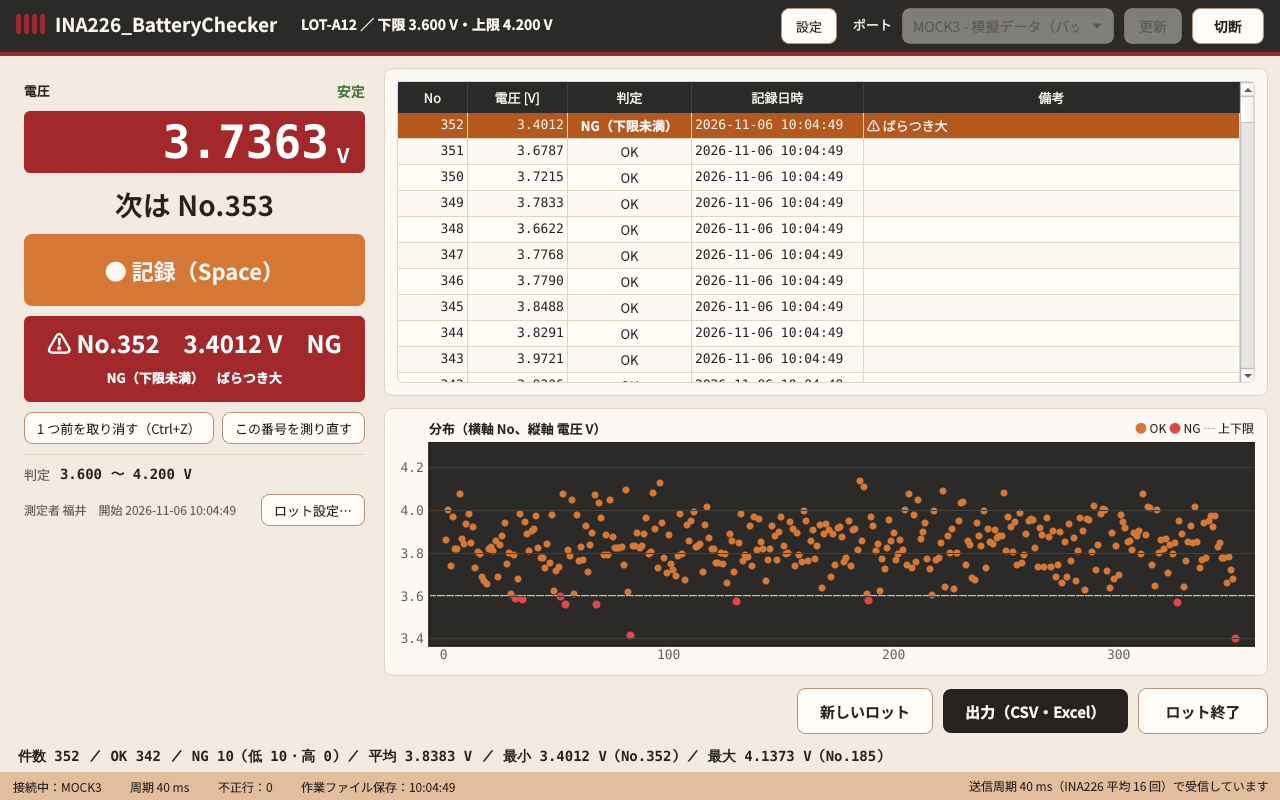
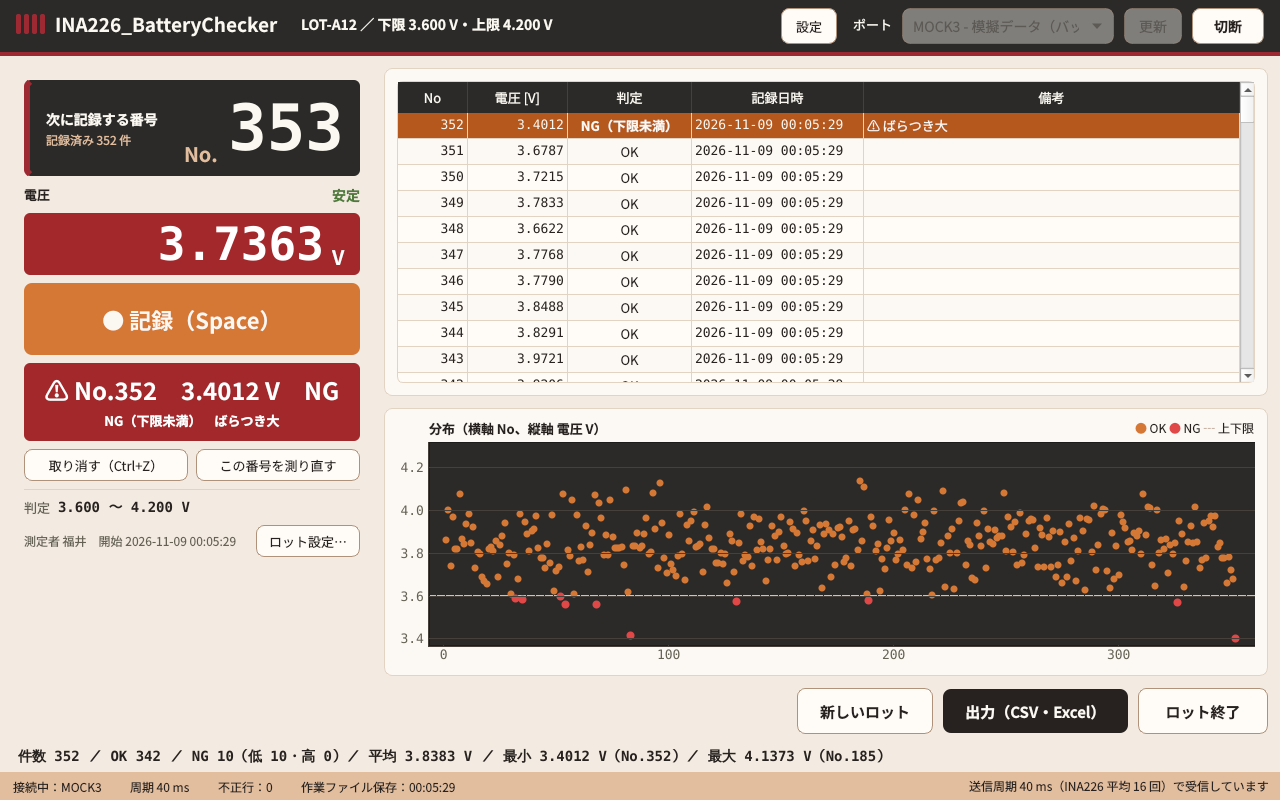
Show the current number prominently in a number card
- New NumberCard at the top of the left panel: "次に記録する番号" with a 64px
  number on the dark header color, plus the recorded count
- Remeasure mode switches the card to the orange badge color with
  "測り直す番号" and the unchanged next number
- No lot: neutral card with "---"
- Undo/remeasure buttons no longer widen the fixed-width left panel;
  "測り直しをやめる" stays enabled while disconnected
- Updated tests, README and screenshot

Claude-Session: https://claude.ai/code/session_017w9UF8vd975PXdvssJUhCt

Changed region(s): [[0.0, 0.0938, 0.3125, 0.6875], [0.625, 0.3438, 0.6562, 0.4688]]

diff --git a/battery_checker/gui/main_window.py b/battery_checker/gui/main_window.py
@@ -27,6 +27,7 @@ from PySide6.QtWidgets import (
     QPlainTextEdit,
     QPushButton,
     QScrollArea,
+    QSizePolicy,
     QStatusBar,
     QTextEdit,
     QVBoxLayout,
@@ -52,7 +53,7 @@ from ..workfile import WorkFile, cleanup_finished, find_unfinished, finish_lot, 
 from .dialogs import LotDialog, LotInput, SettingsDialog
 from .plot_panel import DistributionPlot
 from .record_table import RecordTablePanel
-from .widgets import ElideLabel, FitLabel, divider, sub_label
+from .widgets import ElideLabel, FitLabel, NumberCard, divider, sub_label
 
 log = logging.getLogger(__name__)
 
@@ -243,7 +244,11 @@ class MainWindow(QMainWindow):
         panel.setObjectName("panel")
         lay = QVBoxLayout(panel)
         lay.setContentsMargins(12, 12, 12, 12)
-        lay.setSpacing(10)
+        lay.setSpacing(8)
+
+        # 0. いま記録する番号（いちばん目立つ所に大きく）
+        self.number_card = NumberCard()
+        lay.addWidget(self.number_card)
 
         # 1. 「電圧」見出しと接続状態
         row = QHBoxLayout()
@@ -270,12 +275,6 @@ class MainWindow(QMainWindow):
         bl.addWidget(unit, 0, Qt.AlignBottom)
         lay.addWidget(badge)
 
-        # 3. 次の番号
-        self.next_label = QLabel()
-        self.next_label.setFont(ui_font(28, bold=True))
-        self.next_label.setAlignment(Qt.AlignCenter)
-        lay.addWidget(self.next_label)
-
         # 4. 記録ボタン
         self.record_button = self._button("● 記録（Space）", "recordButton", self.on_record, 22)
         self.record_button.setFixedHeight(72)
@@ -295,16 +294,19 @@ class MainWindow(QMainWindow):
         self.result_sub.setWordWrap(True)
         rl.addWidget(self.result_main)
         rl.addWidget(self.result_sub)
-        self.result_box.setMinimumHeight(86)
+        self.result_box.setMinimumHeight(78)
         lay.addWidget(self.result_box)
 
         # 6. 取り消し・測り直し
         row = QHBoxLayout()
         row.setSpacing(8)
-        self.undo_button = self._button("1 つ前を取り消す（Ctrl+Z）", "undoButton", self.on_undo, 13, bold=False)
+        self.undo_button = self._button("取り消す（Ctrl+Z）", "undoButton", self.on_undo, 13, bold=False)
         self.remeasure_button = self._button("この番号を測り直す", "remeasureButton", self.on_remeasure, 13, bold=False)
         for b in (self.undo_button, self.remeasure_button):
             b.setMinimumHeight(38)
+            # 文字の長さで左パネルの幅を広げない（左パネルは幅固定）
+            b.setSizePolicy(QSizePolicy.Ignored, QSizePolicy.Fixed)
+            b.setMinimumWidth(0)
             row.addWidget(b, 1)
         lay.addLayout(row)
 
@@ -333,6 +335,7 @@ class MainWindow(QMainWindow):
         scroll.setHorizontalScrollBarPolicy(Qt.ScrollBarAlwaysOff)
         scroll.setFixedWidth(LEFT_PANEL_WIDTH)
         scroll.setFocusPolicy(Qt.NoFocus)
+        self.left_scroll = scroll
         return scroll
 
     def _build_status_bar(self) -> None:
@@ -404,8 +407,9 @@ class MainWindow(QMainWindow):
         selected = self.table.selected_no() is not None
         self.record_button.setEnabled(connected and has_lot and battery and not measuring)
         self.undo_button.setEnabled(has_lot and n > 0 and not measuring)
+        # 測り直しを始めるのは接続中だけ。やめるのはいつでもできる
         self.remeasure_button.setEnabled(
-            connected and has_lot and not measuring and (selected or self.remeasure_no is not None)
+            has_lot and not measuring and (self.remeasure_no is not None or (connected and selected))
         )
         self.export_button.setEnabled(has_lot and n > 0 and not measuring)
         self.new_lot_button.setEnabled(not measuring)
@@ -416,12 +420,22 @@ class MainWindow(QMainWindow):
         self.refresh_button.setEnabled(not connected and not measuring)
         self.connect_button.setEnabled(not measuring and (connected or bool(self.port_combo.currentData())))
         self.connect_button.setText("切断" if connected else "接続")
+        self._update_number()
         if self.remeasure_no is not None:
             self.record_button.setText(f"● No.{self.remeasure_no} を測り直す（Space）")
-            self.remeasure_button.setText("測り直しをやめる（Esc）")
+            self.remeasure_button.setText("測り直しをやめる")
         else:
             self.record_button.setText("● 記録（Space）")
             self.remeasure_button.setText("この番号を測り直す")
+
+    def _update_number(self) -> None:
+        book = self.book
+        if book is None:
+            self.number_card.set_none()
+        elif self.remeasure_no is not None:
+            self.number_card.set_remeasure(self.remeasure_no, book.next_no)
+        else:
+            self.number_card.set_next(book.next_no, len(book))
 
     def _update_display(self, force: bool = False) -> None:
         """電圧表示・接続状態・ステータス欄（200 ms ごと）。"""
@@ -487,7 +501,7 @@ class MainWindow(QMainWindow):
 
     def _refresh_records(self) -> None:
         book = self.book
-        self.next_label.setText(f"次は No.{book.next_no}" if book else "次は ---")
+        self._update_number()
         self.plot.refresh(book)
         self.summary_label.setText(summary_text(compute_stats(book.records)) if book else "")
 

diff --git a/battery_checker/gui/widgets.py b/battery_checker/gui/widgets.py
@@ -1,12 +1,12 @@
-"""画面部品：数値ラベル・区切り線・補助ラベル（INA226_Monitor v1.2.1 の widgets.py から流用）。"""
+"""画面部品：数値ラベル・区切り線・補助ラベル（INA226_Monitor v1.2.1 の widgets.py から流用）と、番号カード。"""
 
 from __future__ import annotations
 
 from PySide6.QtCore import Qt
 from PySide6.QtGui import QFont, QFontMetrics, QPainter
-from PySide6.QtWidgets import QFrame, QLabel, QSizePolicy
+from PySide6.QtWidgets import QFrame, QHBoxLayout, QLabel, QSizePolicy, QVBoxLayout, QWidget
 
-from ..theme import ui_font
+from ..theme import mono_font, ui_font
 
 
 class FitLabel(QLabel):
@@ -79,3 +79,70 @@ class ElideLabel(QLabel):
         rect = self.contentsRect()
         text = QFontMetrics(self.font()).elidedText(self.text(), Qt.ElideRight, rect.width())
         painter.drawText(rect, int(Qt.AlignLeft | Qt.AlignVCenter), text)
+
+
+class NumberCard(QFrame):
+    """いま記録する番号を大きく出すカード（7 章 3.）。
+
+    - 通常：濃い地に「次に記録する番号」と番号。記録済みの件数も出す
+    - 測り直し中：朽葉色の地に「測り直す番号」と、その番号（次の番号は変わらないことも出す）
+    - ロットなし：番号は「---」
+    """
+
+    def __init__(self, parent=None) -> None:
+        super().__init__(parent)
+        self.setObjectName("numberCard")
+        self.setProperty("mode", "none")
+        lay = QHBoxLayout(self)
+        lay.setContentsMargins(16, 8, 16, 8)
+        lay.setSpacing(6)
+        left = QVBoxLayout()
+        left.setSpacing(2)
+        self.caption_label = QLabel("次に記録する番号")
+        self.caption_label.setObjectName("numberCaption")
+        self.caption_label.setFont(ui_font(14, bold=True))
+        self.sub_label = QLabel()
+        self.sub_label.setObjectName("numberSub")
+        self.sub_label.setFont(ui_font(12))
+        # 文字が長くてもカードの幅を広げない（番号の表示を優先する）
+        for w in (self.caption_label, self.sub_label):
+            w.setSizePolicy(QSizePolicy.Ignored, QSizePolicy.Preferred)
+            w.setMinimumWidth(0)
+        left.addStretch(1)
+        left.addWidget(self.caption_label)
+        left.addWidget(self.sub_label)
+        left.addStretch(1)
+        lay.addLayout(left, 1)
+        self.prefix_label = QLabel("No.")
+        self.prefix_label.setObjectName("numberPrefix")
+        self.prefix_label.setFont(ui_font(20, bold=True))
+        lay.addWidget(self.prefix_label, 0, Qt.AlignBottom)
+        self.number_label = FitLabel(mono_font(64, bold=True), min_px=28)
+        self.number_label.setObjectName("numberValue")
+        self.number_label.setMinimumWidth(120)
+        self.number_label.setSizePolicy(QSizePolicy.Preferred, QSizePolicy.Preferred)
+        lay.addWidget(self.number_label, 0)
+        self.setFixedHeight(96)
+
+    def _set(self, mode: str, caption: str, number: str, sub: str) -> None:
+        self.caption_label.setText(caption)
+        self.number_label.setText(number)
+        self.sub_label.setText(sub)
+        if self.property("mode") != mode:
+            self.setProperty("mode", mode)
+            for w in (self, *self.findChildren(QWidget)):
+                w.style().unpolish(w)
+                w.style().polish(w)
+
+    def set_next(self, no: int, recorded: int) -> None:
+        self._set("next", "次に記録する番号", str(no), f"記録済み {recorded:,} 件")
+
+    def set_remeasure(self, no: int, next_no: int) -> None:
+        self._set("remeasure", "測り直す番号", str(no), f"次は No.{next_no} のまま")
+
+    def set_none(self) -> None:
+        self._set("none", "次に記録する番号", "---", "ロットを始めてください")
+
+    @property
+    def number(self) -> str:
+        return self.number_label.text()

diff --git a/tests/test_gui.py b/tests/test_gui.py
@@ -104,6 +104,7 @@ def test_initial_button_states(make_window, qapp):
     assert w.new_lot_button.isEnabled() and w.connect_button.isEnabled() and w.port_combo.isEnabled()
     assert w.connect_button.text() == "接続"
     assert w.lot_label.text() == "ロットなし"
+    assert w.number_card.number == "---" and w.number_card.property("mode") == "none"
 
 
 def test_ac01_connect_sends_interval_40(make_window, qapp):
@@ -183,7 +184,7 @@ def test_ac15_space_records_20_in_a_row(make_window, qapp, monkeypatch):
     assert w.asked == []  # 毎回バッテリを外しているので確認は出ない
     assert max(latencies) < 0.5, latencies
     assert w.table.model.rowCount() == 20 and w.table.selected_no() == 20  # 最新の行を選ぶ
-    assert w.next_label.text() == "次は No.21"
+    assert w.number_card.number == "21" and w.number_card.sub_label.text() == "記録済み 20 件"
     assert w.summary_label.text().startswith("件数 20 ／ OK ")
     # 作業ファイルにも 20 件
     from battery_checker.workfile import read_records
@@ -233,13 +234,17 @@ def test_undo_and_remeasure(make_window, qapp):
     w.answers = ["yes"]
     w.on_undo()
     assert w.asked[-1].startswith("No.3（") and w.asked[-1].endswith(" V）を取り消しますか？")
-    assert len(w.book) == 2 and w.next_label.text() == "次は No.3"
+    assert len(w.book) == 2 and w.number_card.number == "3"
     assert w.table.model.rowCount() == 2
     # 測り直し：No.1 を選んで「この番号を測り直す」→ 記録
     w.table.select_no(1)
     assert w.remeasure_button.isEnabled()
     w.on_remeasure()
     assert w.remeasure_no == 1 and w.result_main.text() == "No.1 を測り直します"
+    # 測り直し中は番号カードが「測り直す番号」に変わり、次の番号は変わらない
+    assert w.number_card.number == "1" and w.number_card.property("mode") == "remeasure"
+    assert w.number_card.caption_label.text() == "測り直す番号"
+    assert w.number_card.sub_label.text() == "次は No.3 のまま"
     assert record_and_wait(w, qapp) is False  # 件数は変わらない
     assert w.book.get(1).remeasured == 1 and len(w.book) == 2 and w.book.next_no == 3
     assert w.remeasure_no is None
@@ -294,7 +299,7 @@ def test_ac09_resume_in_new_window(make_window, qapp):
     w2.check_resume()
     assert w2.asked == ["前回のロット（LOT-B、3 件、最後は No.103）が途中です。続けますか？"]
     assert w2.lot.lot_name == "LOT-B" and len(w2.book) == 3 and w2.book.next_no == 104
-    assert w2.next_label.text() == "次は No.104" and w2.table.model.rowCount() == 3
+    assert w2.number_card.number == "104" and w2.table.model.rowCount() == 3
     assert w2.lot_label.text() == "LOT-B ／ 下限 3.600 V・上限 4.200 V"
     # 最終行が切れていたら、その 1 件を除いて再開し、メッセージを出す（AC-10）
     w2.close()

diff --git a/README.md b/README.md
@@ -15,9 +15,9 @@
 1. Arduino と INA226 を USB で PC に繋ぎ、`INA226_BatteryChecker.exe` を起動します
 2. ヘッダー右のポートを選び「接続」（ステータス欄に「周期 40 ms」と出れば準備完了）
 3. 「新しいロット」→ ロット名・測定者・下限・上限・開始番号を入れて「開始」（前回の値が入っています）
-4. バッテリを INA226 の測定端子に繋ぐ → 電圧の横が「安定」になったら **Space**（または Enter、「● 記録」ボタン）
+4. 左上の大きな番号（次に記録する番号）を確かめ、バッテリを INA226 の測定端子に繋ぐ → 電圧の横が「安定」になったら **Space**（または Enter、「● 記録」ボタン）
 5. `No.12　3.8125 V　OK` のように結果が大きく出ます（OK は緑、NG は赤。⚠ はばらつき大）。バッテリを外して次へ
-6. 間違えたら「1 つ前を取り消す」（**Ctrl+Z**）、または一覧で番号を選んで「この番号を測り直す」→ そのバッテリを繋いで記録（やめるときは Esc）
+6. 間違えたら「取り消す」（**Ctrl+Z**。最後の 1 件を取り消す）、または一覧で番号を選んで「この番号を測り直す」→ そのバッテリを繋いで記録（やめるときは Esc）
 7. 全部終わったら「出力（CSV・Excel）」→ 保存先フォルダを選ぶ → CSV と xlsx ができます。続けて「ロットを終了しますか？」に答えます
 
 ### 画面の表示
